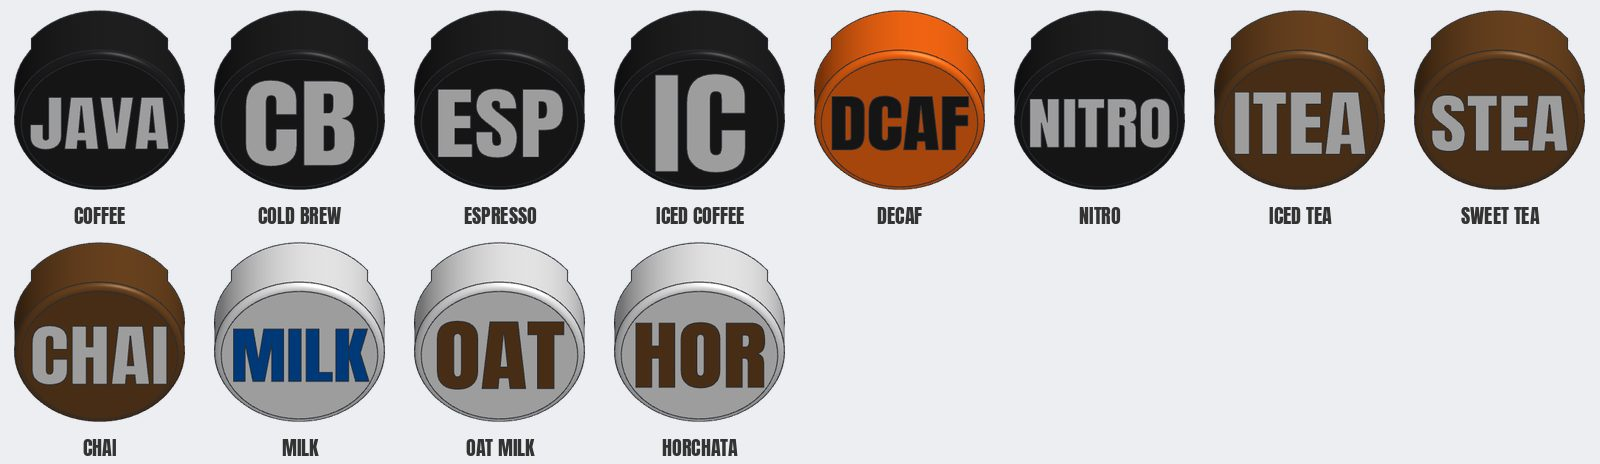
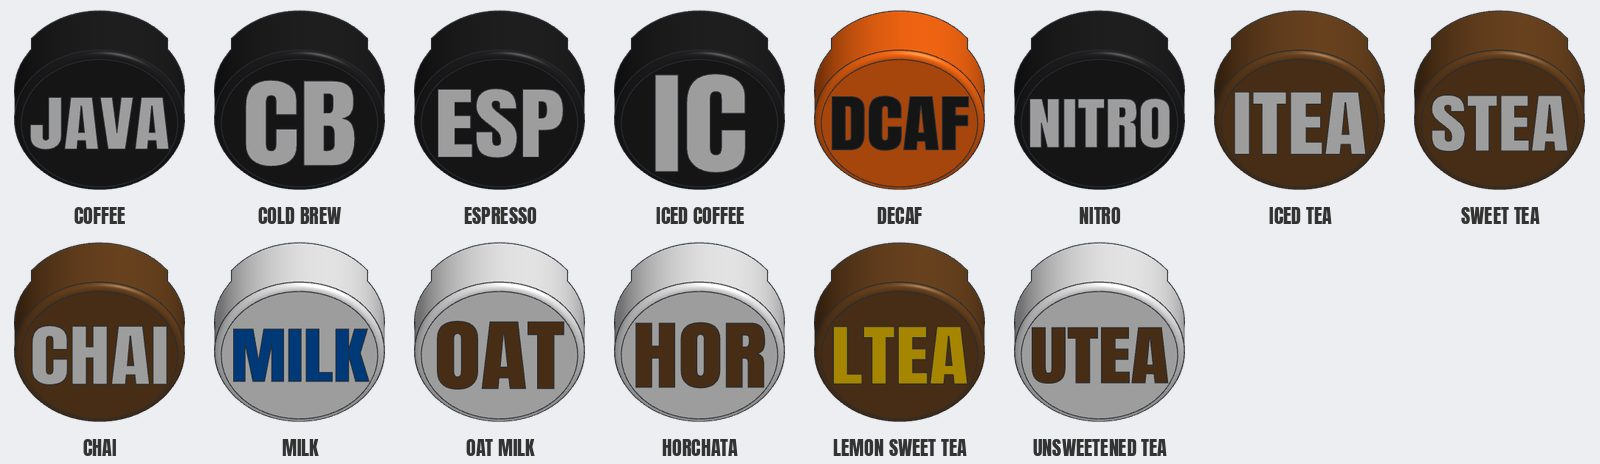
Labels: 27 caps for bag-in-box fountain syrups

Changed region(s): [[0.5, 0.5129, 0.75, 0.9052], [0.5, 0.9353, 0.75, 0.9957]]

diff --git a/RELEASE_NOTES.md b/RELEASE_NOTES.md
@@ -1,7 +1,5 @@
-Labels now use short codes, as on the original caps: PJ for pickle juice, JAVA for coffee, CAMP for Campari.
+Adds 27 caps for fountain syrups sold in bag-in-box (Boylan, Jones, Pure Craft, Tractor, Hometown, Top Hat and others): 254 round caps in all.
 
-- 227 round caps: the 112 labels of the commercial Wunder-Bar catalogue, in the vendor colours, and 115 house codes.
-- The 3MF files have the drink's name (`PICKLE_JUICE.3mf`); the cap has the code (PJ).
-- House caps have their own colours, chosen for contrast on a 10 mm cap.
-- Drinks that a catalogue cap already covers (GALE, MTDEW, BMARY, ...) no longer have a second house cap.
+- New: birch beer (BRCH, RBCH), diet root beer (DRB), root beer float (RBF), Mug (MUG), cane cola (CANE, DCANE), light cola (LCOLA), cherry cola (CCOLA, CPC), black cherry (BCHR), cherry cream (CHCR), orange & cream (O&C), dreamsicle (DREAM), green apple (GA), lemongrass (LGR), citrus fizz (FIZZ), Kilowatt citrus (KW), East India tonic (EIT), flavoured lemonades (SLADE, BLADE, BBL, LCL), cherry limeade (CLMD), pineapple cream (PC), lemon sweet tea (LTEA), unsweetened tea (UTEA).
+- The other syrups on that list already have a cap (COLA, DIET, ZERO, GALE, GBEER, RBEER, CREAM, PUNCH, LADE, PL, SOUR, MARG, ...).
 - Open `round/index.html` in the archive to see every cap, grouped.

diff --git a/README.md b/README.md
@@ -34,7 +34,7 @@ Tips:
 ## All caps
 
 <!-- caps:start -->
-227 caps. Generated by `make docs` from `labels/round.csv`.
+254 caps. Generated by `make docs` from `labels/round.csv`.
 
 ### Letters and codes (31)
 
@@ -44,15 +44,15 @@ Tips:
 
 ![Wunder-Bar catalogue](docs/round-wunder-bar-catalogue.jpg)
 
-### Sodas and mixers (9)
+### Sodas and mixers (28)
 
 ![Sodas and mixers](docs/round-sodas-and-mixers.jpg)
 
-### Coffee, tea and milk (12)
+### Coffee, tea and milk (14)
 
 ![Coffee, tea and milk](docs/round-coffee-tea-and-milk.jpg)
 
-### Juices and fruit (17)
+### Juices and fruit (23)
 
 ![Juices and fruit](docs/round-juices-and-fruit.jpg)
 
